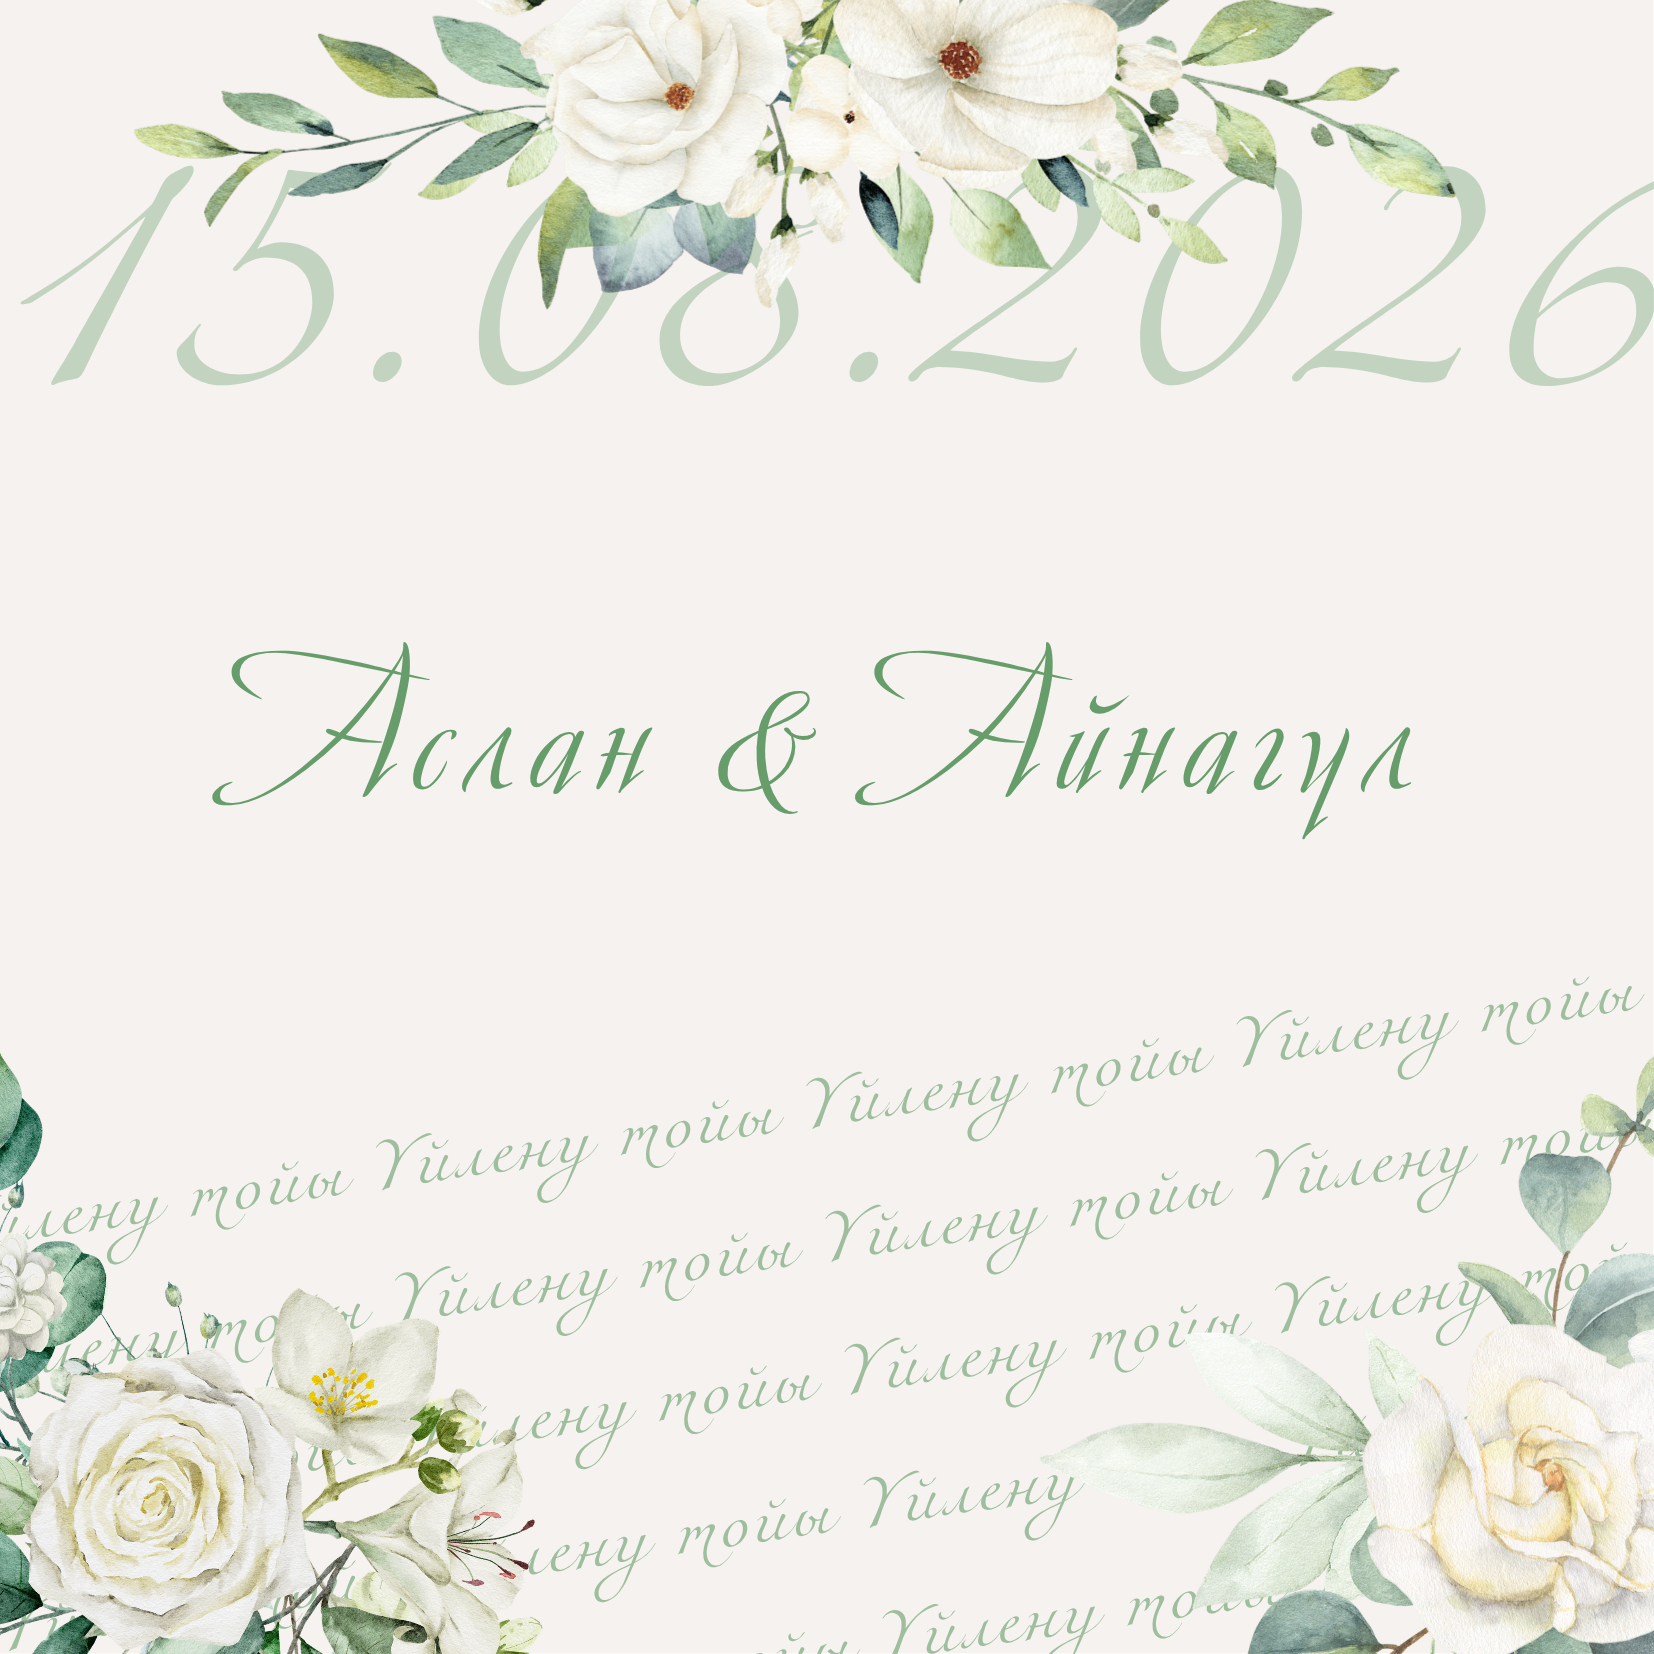
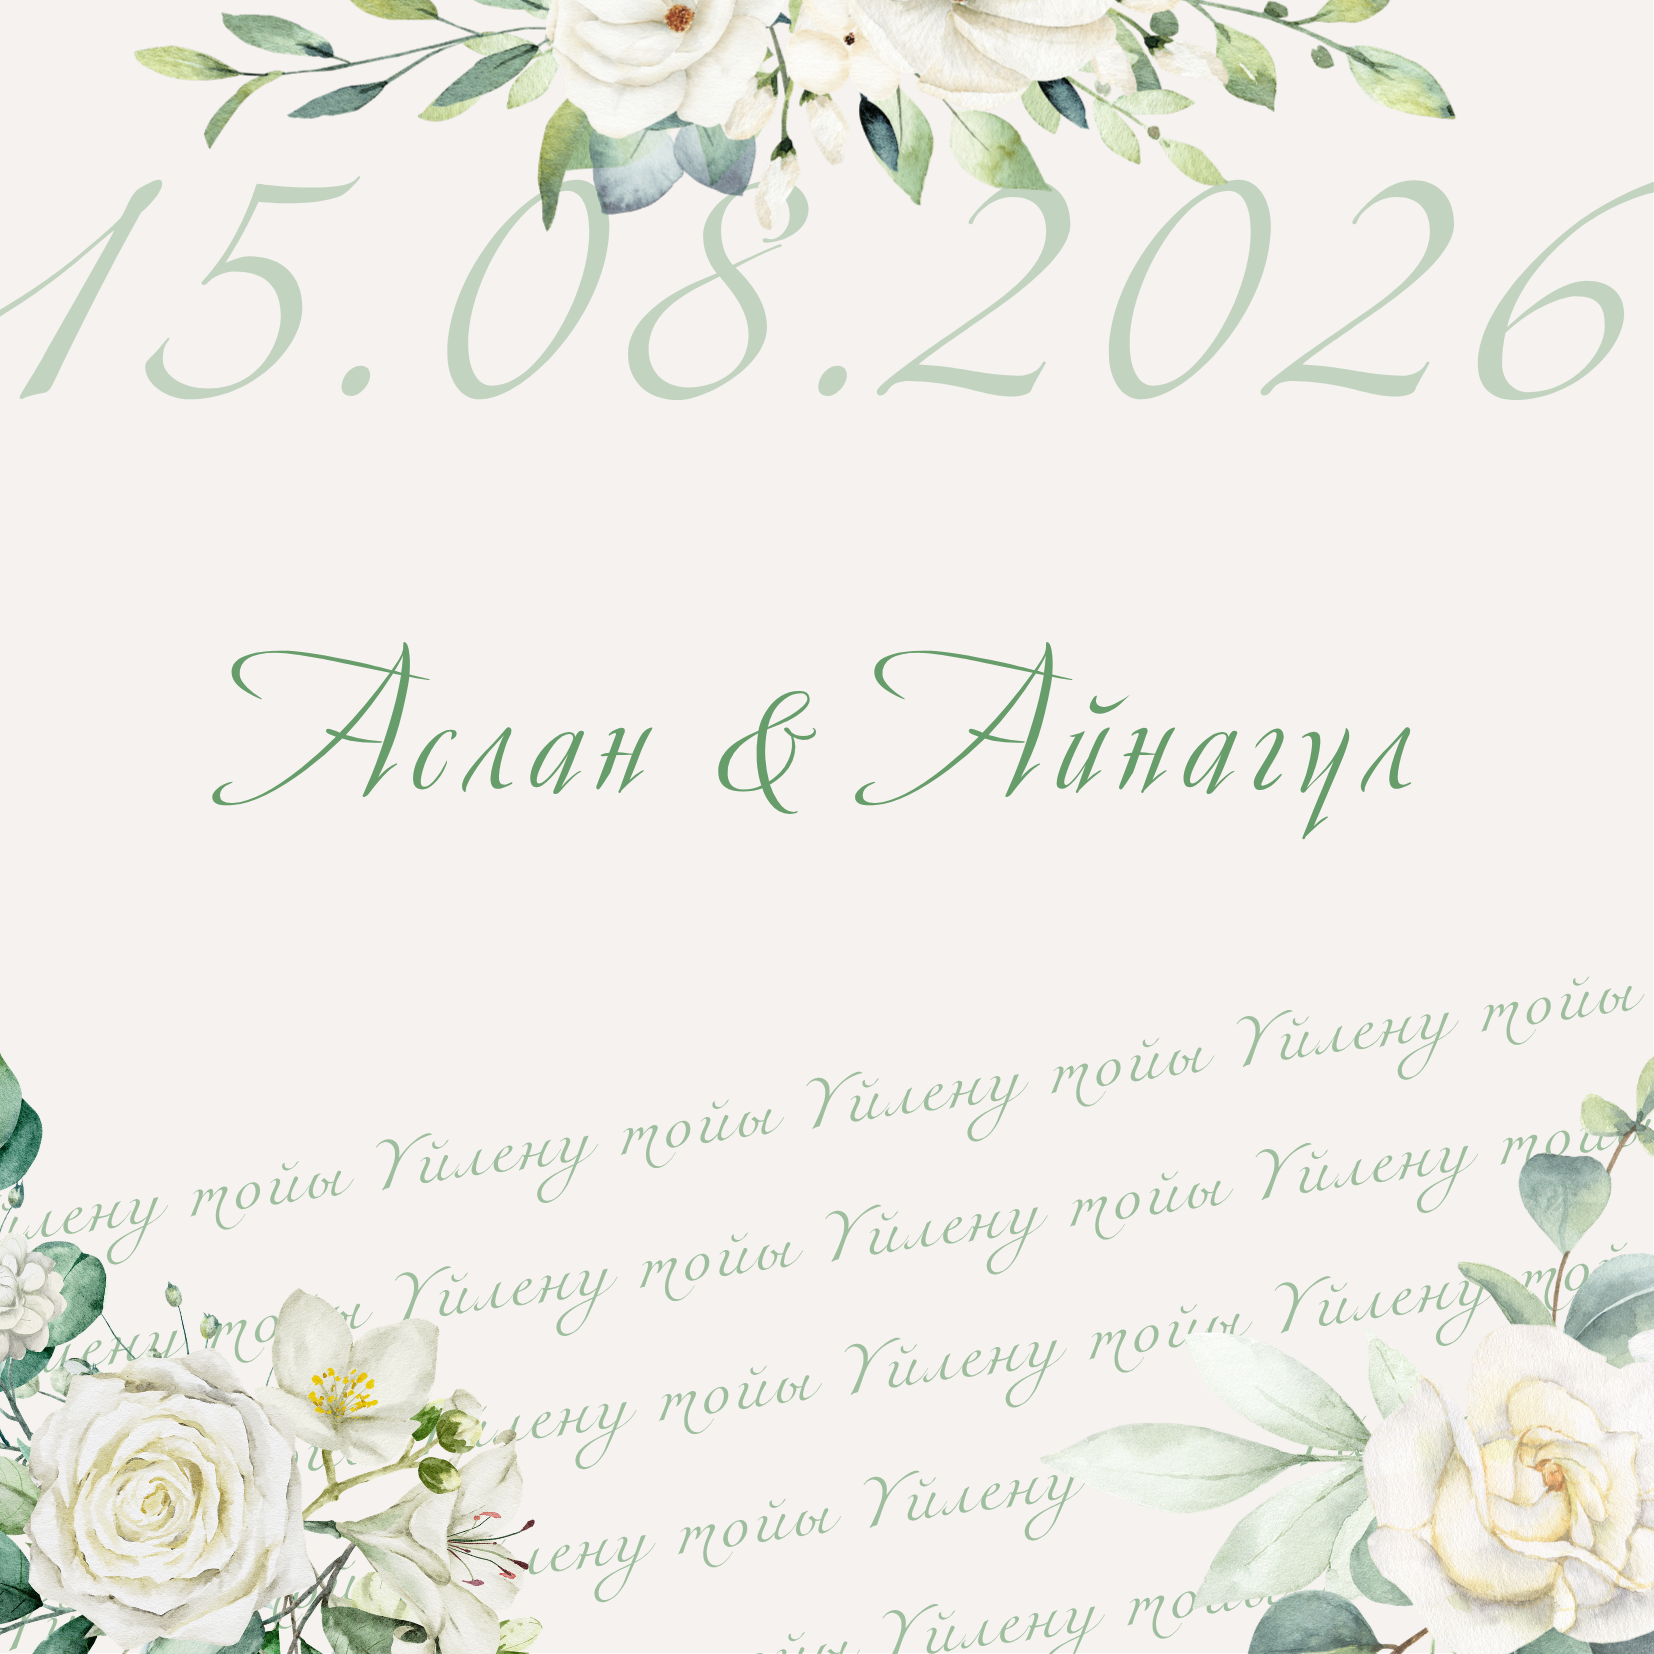
hehehe

Changed region(s): [[0.0, 0.0, 1.0, 0.2467]]

diff --git a/Samples/Sample2/index.html b/Samples/Sample2/index.html
@@ -10,15 +10,15 @@
 
  <meta charset="UTF-8">
     <meta name="viewport" content="width=device-width, initial-scale=1.0">
-    <meta property="og:title" content="Арман & Әселдің үйлену тойына шақыру!">
-    <meta property="og:description" content="24.09.2026">
+    <meta property="og:title" content="Аслан & Айнагүлдің үйлену тойына шақыру!">
+    <meta property="og:description" content="15.08.2026">
     <meta property="og:image" content="https://lh3.googleusercontent.com/pw/AP1GczNwOy4E5977wdPWxlufPMn419SM8GRybSco84X668z7OqMEG_rUHgkSx6DsAZKDYloip-Hf-ivLTNfHFnJ_YuzpM8TRJvSVZrR1bU6jLh1P1vheJO-ON2hVe2Wog_4_VCdukWlRUNCRvmGe1PHvXMo2=w786-h912-s-no-gm?authuser=0" >
 
 
 <link rel="stylesheet"  href="css.css">
 
    <meta name="viewport" content="width=device-width, initial-scale=1">
-<title>Арман & Әселдің үйлену тойына шақыру!</title> 
+<title>Аслан & Айнагүлдің үйлену тойына шақыру!</title> 
 
 
 
@@ -350,13 +350,22 @@
 .element-animation{ 
     top: 0px; 
     opacity: 0; 
-    position: relative; 
+    position: relative;
+    margin: 0;
+    padding: 0;
+    display: block;
+    line-height: 0;
+    font-size: 0;
 } 
 .element-animation.element-show{ 
 position: relative; 
-top: 20px; 
+top: 0px; 
 opacity: 1; 
 transition-duration: 1.4s; 
+}
+.element-animation img {
+    display: block;
+    width: 100%;
 }
 
 
@@ -572,26 +581,19 @@ background-color: #F4F1EE;
 
 
 
-<center>
-<div class="fade-in" id="content">
-<img src="photo1.png" style="width: 100%; " loading="eager">
-</div></center>
+<div class="fade-in" id="content" style="margin:0;padding:0;line-height:0;">
+<img src="photo1.png" style="width:100%;display:block;" loading="eager">
+</div>
+<div class="element-animation" style="margin:0;padding:0;">
+<img src="photo2.png" style="width:100%;display:block;">
+</div>
+<div class="element-animation" style="margin:0;padding:0;">
+<img src="photo3.png" style="width:100%;display:block;">
+</div>
 
-
-
-<center>
-<div class="element-animation"> 
-<img src="photo2.png" style="width: 100%; margin-top: 50px;">
-</div></center>
-
-
-
-
-
-
-<center>
-<div class="countdown-container" style="margin-top:20px;">
-    <div class="countdown-item" style="margin-bottom: 30px;">
+<center style="padding:20px 0;">
+<div class="countdown-container">
+    <div class="countdown-item">
         <span id="days"></span>
         <span style="font-size: 13px;text-align: center;">күн</span>
     </div><h2 style="margin-top:3px; size: 30px;">:</h2>
@@ -613,30 +615,21 @@ background-color: #F4F1EE;
 
 
 
+<div class="element-animation"><a href="https://go.2gis.com/fQa4p">
+<img src="photo4.png" style="width:100%;display:block;"></a>
+</div>
+
+
+
+
+
+
+
+<div class="element-animation">
+<img src="photo5.png" style="width:100%;display:block;">
+</div>
+
 <center>
-<div class="element-animation"> <a href="https://go.2gis.com/fQa4p">
-<img src="" style="width: 100%; margin-top: 40px;"></a>
-</div></center>
-
-
-
-
-
-
-
-<center>
-<div class="element-animation"> 
-<img src="" style="width: 100%;margin-top: 50px; margin-bottom: 25px;"  >
-
-</div></center>
-
-
-
-
-
-
-
-<center style="margin-top: 0px;">
 <form class="transparent" method="post" id="form">
   <div class="form-inner">
     
@@ -691,19 +684,16 @@ background-color: #F4F1EE;
 
 
 
-<center>
-<div class="element-animation"> 
-<img src="njm.jpg" style="width: 100%;margin-top: 50px; "  >
-
-</div></center>
-
+<div class="element-animation">
+<img src="photo6.png" style="width:100%;display:block;">
+</div>
 
 
 
 <!-- Модал -->
 <div id="musicModal" class="modal">
     <div class="modal-content">
-        <img src="liul.jpg" class="kk">
+        <img src="photo.png" class="kk">
         <button id="playMusic" style="color: black;">Шақыртуды ашу</button>
     </div>
 </div>
@@ -976,7 +966,7 @@ form.addEventListener("submit", async (ev) => {
 
     document.addEventListener('DOMContentLoaded', function() {
     function updateCountdown() {
-        const endDate = new Date("October 15, 2026 18:00:00").getTime();
+        const endDate = new Date("August 15, 2026 18:00:00").getTime();
         const now = new Date().getTime();
         const distance = endDate - now;
 
